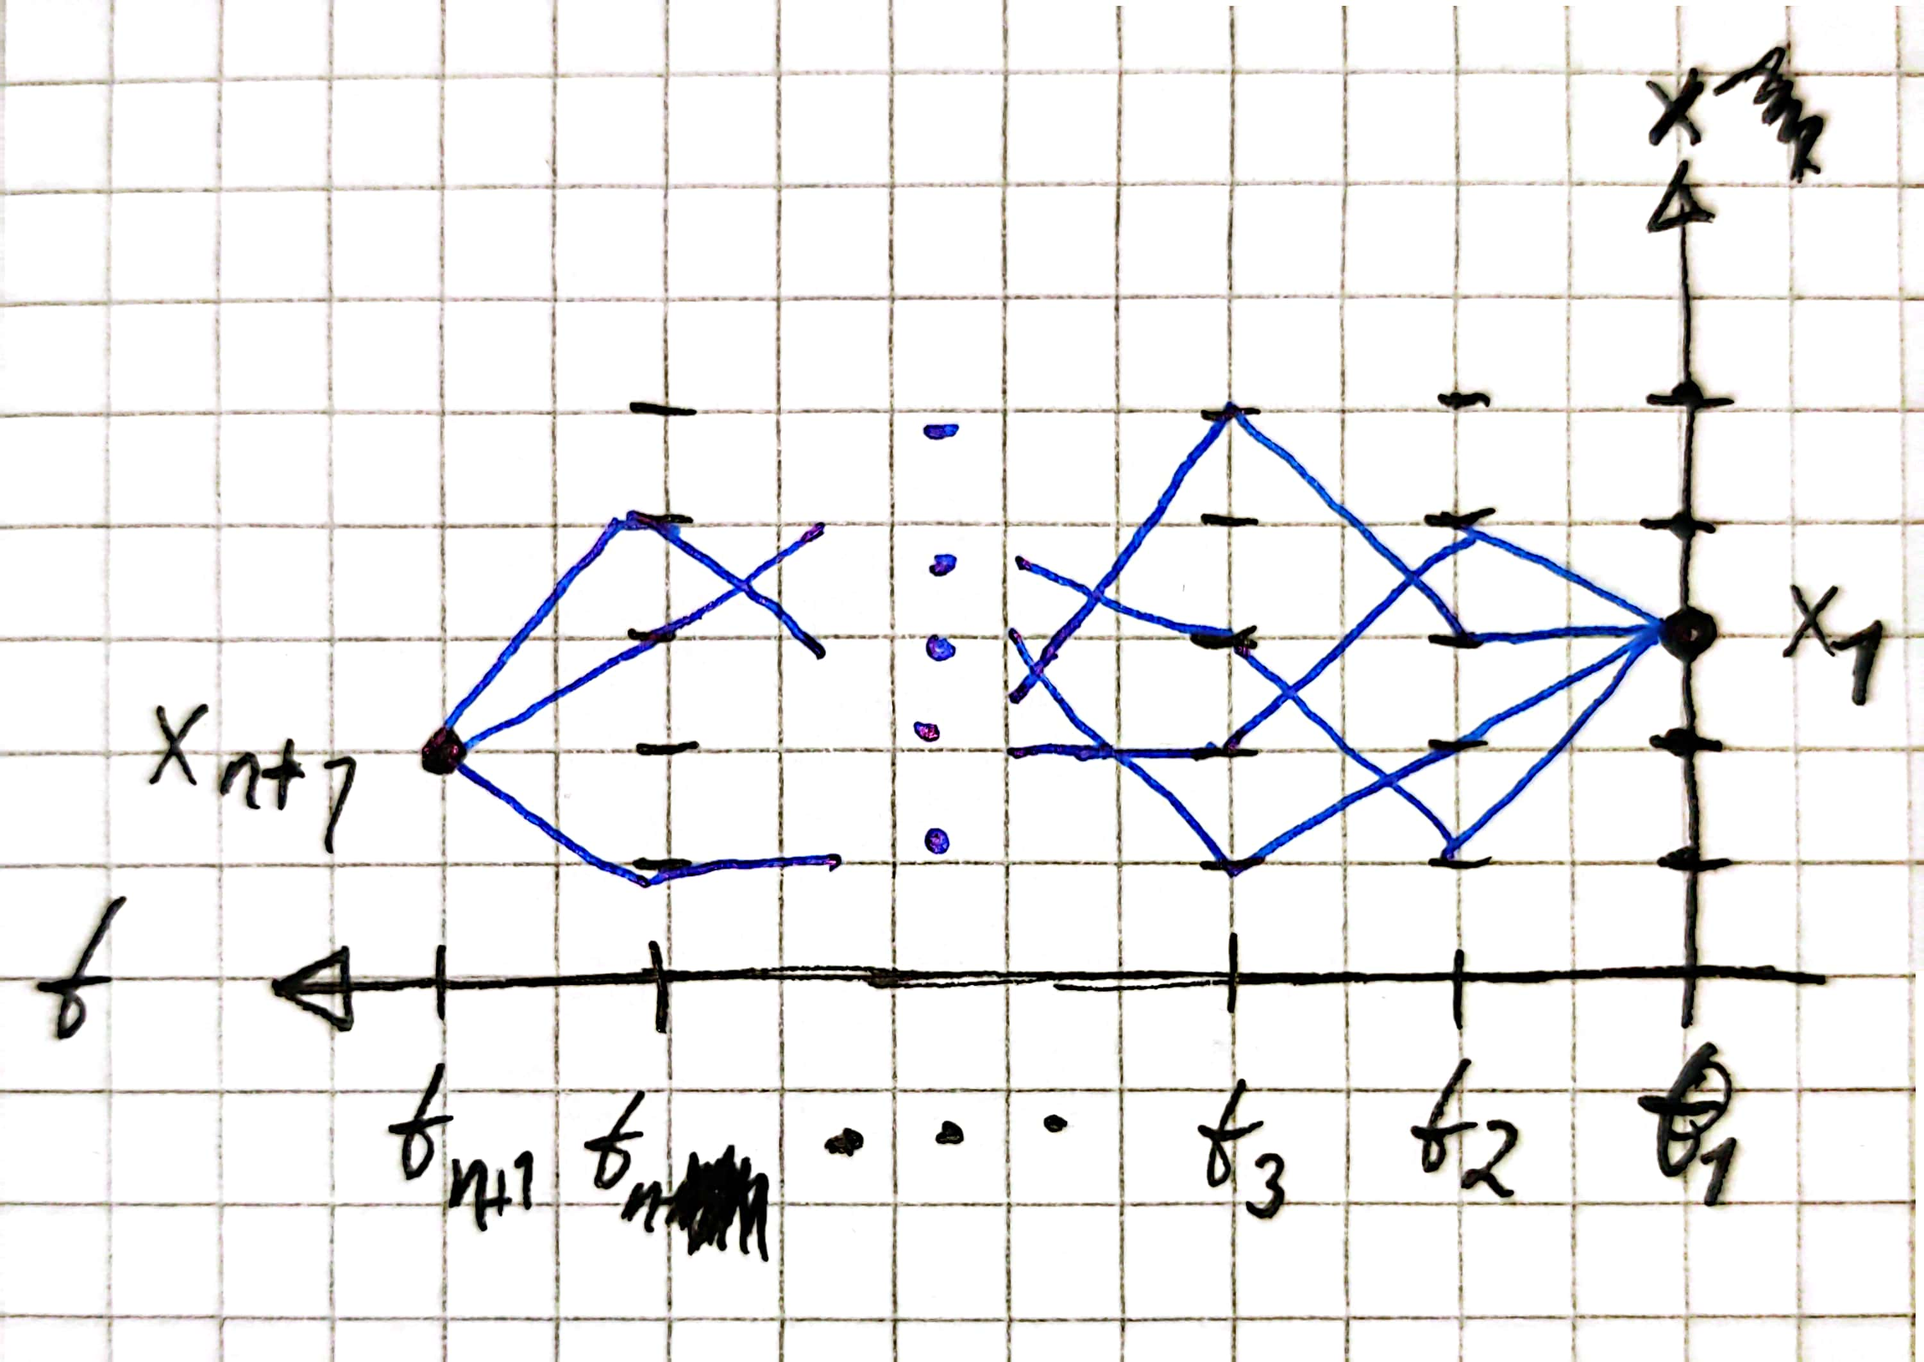
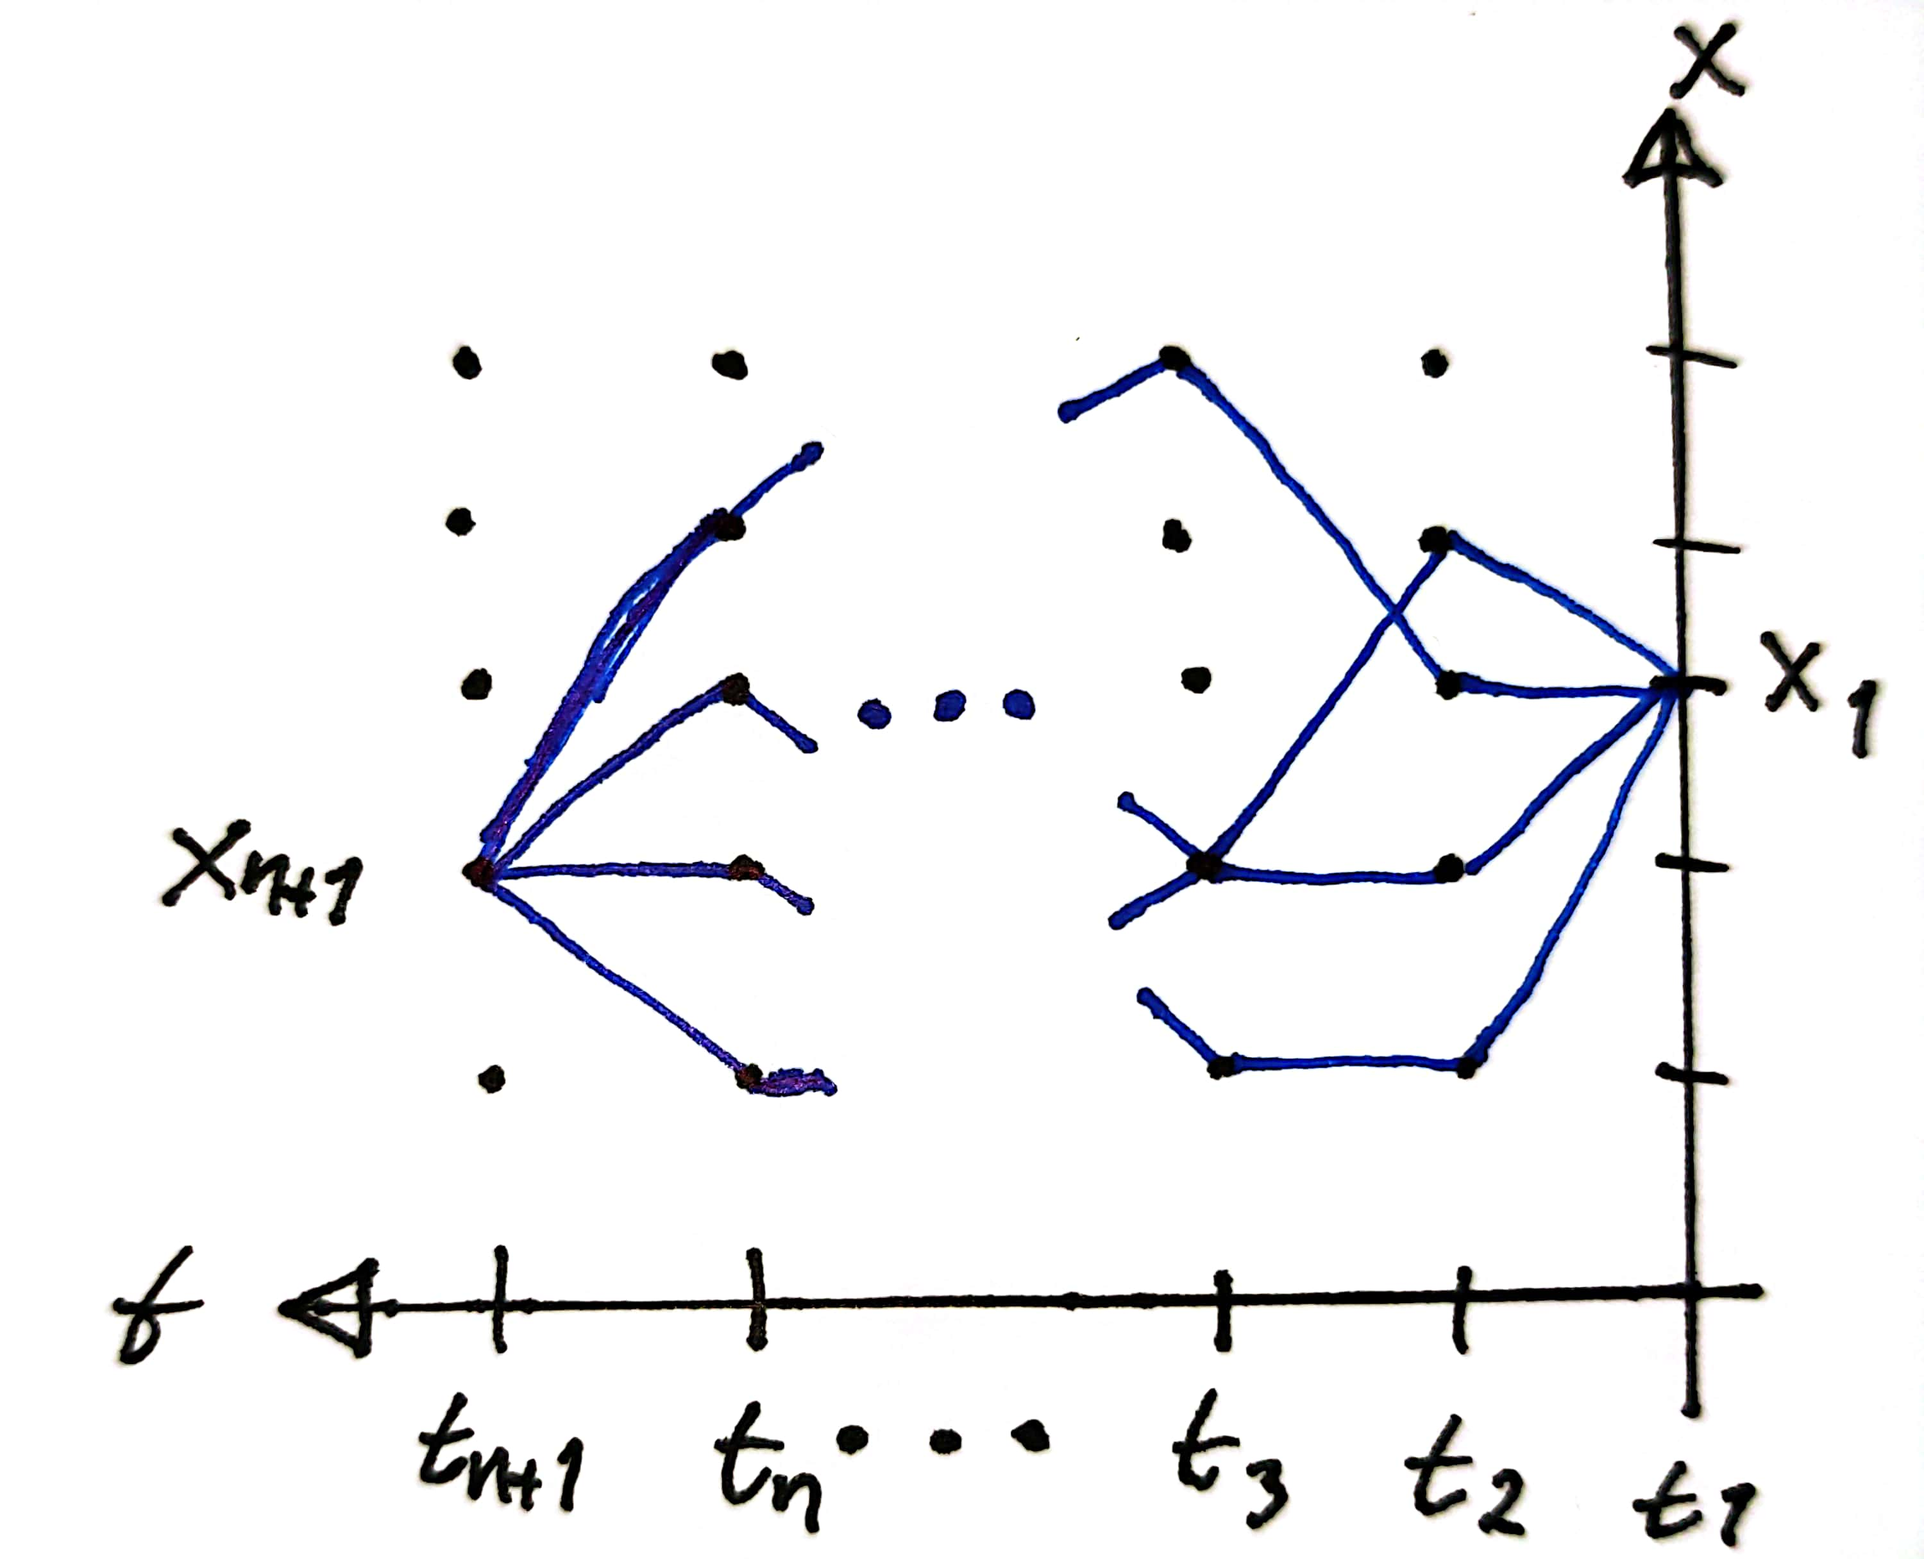
Fixed comments and improved from lecture 1

Changed region(s): [[0.0, 0.0, 1.0, 1.0]]

diff --git a/chapters/intro_PI.tex b/chapters/intro_PI.tex
@@ -1,12 +1,13 @@
-In this section, we will introduce the concept of a path integral in the context of Markovian stochastic processes.
-This is a formulation that describe the conditional probabilities of a physical process as a (suitably weighted) sum of all possible paths the system can take in its evolution between given initial and final state.
-The conditional probabilities are statements of the form ``Given this initial condition, what is the probability that the system ends up here'', and in the path integral formulation this is calculated by summing over all possible ways, or ``paths'' the system could evolve from the initial to the final state.
-The physical systems that can be described by this formulation are \emph{stochastic processes.}
+In this section, we introduce the concept of path integrals in the context of \emph{Markovian stochastic processes.}
+Stochastic processes, such as a pollen particle in water affected by the random thermal fluctuations of the liquid particles bumping into it, are described by probability distributions.
+\emph{Conditional} probabilities are statements of the form ``Given this initial state, what is the probability that the system ends up in that final state?'', and are therefore a function of all possible ways the system can evolve between these states.
+We can therefore describe conditional probabilities of a physical process as a weighted sum (actually, an integral) of all possible ``paths'' the system can take between its initial and final state.
 
 
 \section{Stochastic processes}
 
-A stochastic process $x(t)$ is a sequence of random variables. The variable $t \in \Te$ can be either discrete or continuous, the only requirement on $\Te$ being that it is \emph{totally ordered}.
+A stochastic process $x(t)$ is a sequence of random variables, indexed by $t \in \Te$.
+The variable $t$ can be either discrete or continuous, the only requirement on $\Te$ being that it is \emph{totally ordered}.
 Roughly, this means that, for any two elements $t_1, t_2 \in \Te$ and $t_1 \neq t_2$, then $t_1 < t_2$ or $t_2 < t_1$.
 The most common example of $\Te$ is time, so $x(t)$ describes the evolution of $x$ thought time.
 However, $\Te$ might also be the set of indices of monomers in a linear polymer chain, or of symbols printed on a thin paper strip, to give a couple of examples.
@@ -18,14 +19,10 @@ We will begin by considering discrete time steps with a length of $\Delta t$, so
 %
 The notation $\Delta t \Z$ means set of all integers $\Z$ multiplied by $\Delta t$.
 
-We consider a stochastic process $x(t)$ that take on discrete values, $x \in \Ex$, where
-%
-\begin{align}
-    \Ex = \Delta x \Z.
-\end{align}
-%
-This process can be though of as a particle on a one-dimensional lattice with lattice points separated by $\Delta x$.
-The probability that, if the particle is at lattice point $x = n \Delta x$ at time $t$, it will jump to lattice point $x' = m \Delta x$ at the next time step $t + \Delta t$, is $P(x'(t + \Delta t) | x(t) )$.
+We begin by considering a one-dimensional process, so $x \in \Ex$ is a scalar, but it may be either discrete or continuous.
+A discrete process, with for example $\Ex = \Delta x \Z$, can be though of as a particle on a one-dimensional lattice with lattice points separated by $\Delta x$.
+The probability that, if the particle is at lattice point $x = n \Delta x$ at time $t$, it will jump to lattice point $x' = m \Delta x$ at the next time step $t + \Delta t$, is denoted by $P\left(x'(t + \Delta t) | x(t) \right)$.
+This is illustrated in \autoref{fig: stochastic process}.
 We use there the common notation for conditional probabilities, where $P(A|B)$ means ``the probability of $A$ given $B$''.
 It is defined as 
 %
@@ -38,17 +35,18 @@ where $P(A\cap B)$ is the probability that \emph{both} $A$ and $B$ occur.
 
 \begin{figure}[!htb]
     \centering
-    \includegraphics[width=.5\textwidth]{fig/fig1.jpg}
+    \includegraphics[width=.4\textwidth]{fig/fig1.jpg}
     \caption{Illustration of a stochastic process}
     \label{fig: stochastic process}
-\end{figure}\todo{could you make sure that figures are referenced to in the text?}
+\end{figure}
+
 
 A \emph{Markov process} is a stochastic process with ``no memory''.
-This means that, if we have $n$ steps of the process $x(t_1), x(t_2), \dots x(t_n)$, then the conditional probability of $x(t_n)$, given $x(t_1), \dots x(t_{n-1})$, only depends on the last step $x(t_{n-1})$.
+This means that, if we have $n$ steps of the process, denoted $x(t_1), x(t_2), \dots x(t_n)$, then the conditional probability of observing $x(t_n)$ given $x(t_1), \dots x(t_{n-1})$, only depends on the last step $x(t_{n-1})$.
 This can be stated as
 %
 \begin{align}
-    P(x_n |x_{n-1}, x_{n-2} \dots x_1) = P(x_n | x_{n-1}).
+    P(x_n |x_{n-1}, x_{n-2}, \cdots, x_1) = P(x_n | x_{n-1}).
 \end{align}
 %
 Here, we use the shorthand $x_i = x(t_i)$.
@@ -57,7 +55,7 @@ As far as we know, the underlying laws of physics are fully described at each ti
 For example, if try to describe the flight of a football through the air with only its position, the description is not Markovian, as we need the current velocity to know where it will be at the next time-step.
 But, if we include the velocity in our description, the model is Markovian.
 A non-Markovian description thus indicate that we have excluded degrees of freedom that contain information about the system.
-Be ware that a system being Markovian does not imply statistical independence, so $P(x_{n}, x_{n-1})\neq P(x_n)P(x_n)$
+Be ware that a system being Markovian does not imply statistical independence, so $P(x_{n}, x_{n-1})\neq P(x_n)P(x_{n-1})$
 
 
 From the definition of conditional probability, \autoref{eq: cond prob}, we can derive that the joint probability of three events, $x_1$, $x_2$ and $x_3$ is given by
@@ -73,7 +71,7 @@ A Markovian process thus has the property
 \end{align}
 %
 We can furthermore write $P(x_3, x_1) = \sum_{x_2 \in \Ex} P(x_3, x_2, x_1)$.
-From this, we derive the Chapman-Kolmogorov equation, \todo{Here we could already include the case where $x$ is continuous, in which case the equation would involve integrals of a density $\mathcal{P}$, rather than sums. It seems a bit more intuitive than taking the continuum limit in $x$ after having introduced the (continuous) OU process...}
+From this, we derive the Chapman-Kolmogorov equation,
 %
 \begin{align}\label{eq: chapman kolmogorov}
     P(x_3|x_1) = \sum_{x_2} P(x_3|x_2) P(x_2|x_1).
@@ -88,6 +86,7 @@ By repeatedly applying this process, we can get conditional probability between 
 \end{align}
 %
 We see that this already begins to resemble something like a sum over all possible ``paths'' that the proces $x(t)$ can take to transition from $x_1$ at $t_1$ to $x_{n+1}$ at $x(t_{n+1})$.
+This is illustrated in \autoref{fig: paths}.
 
 
 \begin{figure}[!htb]
@@ -97,28 +96,92 @@ We see that this already begins to resemble something like a sum over all possib
     \label{fig: paths}
 \end{figure}
 
-\todo{I feel like introducing continuous $x$ already here and discussing the limit $\Delta t \to 0$ where we define the path integral would be useful and may avoid giving the impression that one needs Gaussian processes to define the path integral}
-\todo{I am all up for hand-drawn figures but maybe they could be slightly cleaner? E.g. by doing them on blank paper}
+
+\subsection*{The continuum limit}
+
+If we consider a particle on a line instead of a lattice, so $\Ex = \R$, we must consider \emph{probability densities} $\Pe(x)$.
+The probability of finding the particle between the points $x_i$ and $x_i + \Delta x$ is, for small $\Delta x$,
+%
+\begin{align}
+    P(x) \equiv P(x \in [x_i, x_i + \Delta x]) = \Delta x \Pe(x).
+\end{align}
+%
+This corresponds to the limit $\Delta x \rightarrow 0$ for the discrete process considered above, and allows us to go from sums to integrals,
+%
+\begin{align}
+    \sum_{x} P(x) \sim \sum_{x} \Delta x \Pe(x) \underset{\Delta x \rightarrow 0}{\longrightarrow} \int \dd x \, \Pe(x).
+\end{align}
+%
+In this limit, \autoref{eq: cond prob markov x0 given xn} becomes
+%
+\begin{align}\label{eq: cond prob markov x0 given xn cont}
+    P(x_{n+1}|x_1) 
+    = \left(\int \prod_{i=1}^{n} \dd x_i\right)
+    \Pe(x_{n+1}|x_n) \Pe(x_n| x_{n-1})\cdots \Pe(x_2|x_1).
+\end{align}
+
+Likewise, we can take the limit $\Delta t\rightarrow 0$, corresponding to $n\rightarrow\infty$, to obtain a process with continuous time.
+In this case (``the continuum limit'') \autoref{eq: cond prob markov x0 given xn cont} becomes
+%
+\begin{align}\label{eq: general path integral}
+    P(x(t_0 + T) | x(t_0) ) 
+    &
+    =
+    \lim_{
+        \substack{\Delta x \rightarrow 0\\n\rightarrow \infty}
+    }
+    \left(\int \prod_{i = 1}^{n} \dd x_i C_n\right)
+    \Phi_n(\{x_i\})
+    \equiv
+    \int \D x(t) \, \Phi[x(t)].
+\end{align}
+%
+where $\Delta t = T/n$ and $t_i = t_1 + (i-1)\Delta t$.
+We have defined 
+%
+\begin{align}
+    \Phi(\{x_i\}) = \frac{1}{C_n} \Pe(x(t_{n+1}) | x(t_n) ) \cdots \frac{1}{C_n} \Pe(x(t_{2}) | x(t_1) ),
+\end{align}
+%
+where $C_n$ is a constant we will come back to later.
+In the last equality, we have defined the \emph{path integral measure} $\D x(t) = \lim_{n \rightarrow \infty} \prod_{i=1}^n \dd x(t_i) C_n$,
+and the \emph{Onsager-Machlup functional} $\Phi[x(t)]= \lim_{n \rightarrow \infty} \Phi_n(\{x_i\})$.
+This is a functional and not a function, as it takes as its argument a function $x(t)$.
+We see that \autoref{eq: general path integral} gives the conditional probability for $x(t_0 + T)$ given $x(t_0)$ by integrating over all possible paths $x(t)$ weighted by $\Phi[x(t)]$.
+For now, this is a very formal quantity.
+To see the power of this formalism, we consider a concrete process, the Ornstein-Uhleneck process.
 
 
 
 \section{Gaussian process and the Ornstein-Uhlenbeck process}
 
-The most important class of stochastic processes, as it is pretty much the only one we can solve, is Gaussian processes.
-These have the form
+The most important class of stochastic processes, as it is pretty much the only one we can solve, is Gaussian processes, which are processes with probability densities with the form
 %
 \begin{align}
-    P(x_{n+1}|x_n)
+    \Pe(x_{n+1}|x_n)
     =
-    \frac{ 1 }{ \sqrt{ 2 \pi \sigma } }
-    \exp \left\{ {-\frac{(x_{n+1} - \bar x_{n + 1})^2}{2 \sigma }} \right\}
+    \frac{ 1 }{ \sqrt{ 2 \pi \sigma_{n+1} } }
+    \exp \left\{ {-\frac{(x_{n+1} - \bar x_{n + 1})^2}{2 \sigma_{n+1} }} \right\}
 \end{align}
 %
-Here, $\bar x_{n+1}$ is the expected value of $x_{n+1}$. 
-As we consider Markovian processes, this is a function of only the previous step, $x_n$, and $\sigma$ is the variance of the process. \todo{Is it clear that this is the variance conditioned on $x_n$? It might give the impression that we are talking about the steady-state variance, which does not depend on $x_n$}
+Here, $\bar x_{n+1}$ is the expected value of $x_{n+1}$, and $\sigma_{n+1}$ the variance.
+As we consider Markovian processes, these quantities are functions of only the previous step, $x_n$.
 
 
-A specific example is the Ornstein-Uhlenbeck (OU) process,
+If we have a vector valued process instead, $\bm x(t) = x_a(t) \hat {\bm x}_a$, then the probability distribution is a multivariate Gaussian
+%
+\begin{align}
+    P(x_{n_1}|x_n)
+    = 
+    \frac{ 1 }{ \sqrt{ 2 \pi \det \Sigma } }
+    \exp \left\{ - \sum_{ab} \left[x_a(t_{n+1}) - \bar x_a(t_{n+1})\right] \Sigma_{ab}^{-1} \left[x_b(t_{n+1}) - \bar x_b(t_{n+1})\right] \right\}.
+\end{align}
+%
+Here, $\Sigma$ is the covariance matrix of $x$.
+An example of this may be a particle moving in three dimensions, so $\bm x$ is a three-dimensional vector, or a set of $N$ particles with position and velocity in three dimensions, so $\bm x$ is a $6 N$ component vector.
+
+
+A specific example is the Ornstein-Uhlenbeck (OU) process, which in one dimension is
 %
 \begin{align}
     \odv{ x(t) }{ t } = - \mu x(t) + \eta(t).
@@ -127,12 +190,12 @@ A specific example is the Ornstein-Uhlenbeck (OU) process,
 This models, for example, a particle on a spring in a fluid with thermal noise where friction dominates.
 The $-\mu x(t)$ term is from Hooks law, and $\eta(t)$ is a zero-mean random force modeling the forces of the fluid particles bumping into the particle.
 You can read more about this process in~\footnote{\url{https://iopscience.iop.org/article/10.1088/1367-2630/ad7ef1/meta}}.
-The expectation value of the OU-process at time $t_{n+1}$ conditioned on $x(t_n)=x_n$ is $x_n - \mu x_n \Delta t$ --- i.e.\ where it was the step before minus the correction due to the spring-force.
-The variance is $\sigma = \frac{2D}{\mu}(1  - e^{- 2 \mu \Delta t})$, where $D$ is the diffusion constant, which is the variance of the noise $\eta$.
-With this, OU-process has the conditional probability distribution
+For small $\Delta t$, the expectation value of the OU-process at time $t_{n+1}$ conditioned on $x(t_n)=x_n$ is $x_n - \mu x_n \Delta t$ --- i.e. where it was the step before minus the correction due to the spring-force.
+The variance is $\sigma = 2D \Delta t$, where $D$ is the diffusion constant, which is the variance of the noise $\eta$.
+With this, OU-process has the conditional probability density
 %
 \begin{align}
-    P(x_{n + 1}| x_n) 
+    \Pe(x_{n + 1}| x_n) 
     = \sqrt{ \frac{ \mu }{ 4 \pi D \Delta t } }
     \exp \left\{ -
     \frac{ \left(x_{n + 1} - x_n + \mu x_n \Delta t\right)^2 }{ 4 D \Delta t } 
@@ -144,18 +207,11 @@ With this, OU-process has the conditional probability distribution
 \end{align}
 %
 where we have introduced the discrete time-derivative, $\dot x_{n+1} = (x_{n + 1} - x_n) / \Delta t$.
+In the $\Delta t \rightarrow 0$-limit, this becomes a regular derivative.
 
-We will now take two different limits, which will yield the path integral.
-This means we will have to take the continuum limit.
-If we consider the particles to live on a line instead of a lattice, then the position is given by a probability density $\Pe(x)$.
-The probability of finding the particle between the points $x_i$ and $x_i + \Delta x$ is, for small $\Delta x$, $P(x) = P(x \in [x_i, x_i + \Delta x]) = \Pe(x) \Delta x$.
-This allows us to go from sums to integrals,
-%
-\begin{align}
-    \sum_{x} P(x) = \sum_{x} \Delta x \Pe(x) \underset{\Delta x \rightarrow 0}{\longrightarrow} \int \dd x \, \Pe(x).
-\end{align}
-%
-Inserting the OU process into \autoref{eq: cond prob markov x0 given xn} and taking the continuous limit, we get
+
+
+Inserting the OU process into \autoref{eq: cond prob markov x0 given xn} and taking the continuum limit, we get
 %
 \begin{align}
     P(x_{n+1}|x_{1})
@@ -175,29 +231,15 @@ Inserting the OU process into \autoref{eq: cond prob markov x0 given xn} and tak
     \int \D x(t) \, \Phi[x(t)].
 \end{align}
 %
-where the limit $n\to \infty$ is taken at fixed $n\Delta t$ (process duration) and $\Phi$ is the Onsager-Machlup \emph{functional}.
-It is a functional, and not a function, as it takes in a function $x(t)$, and gives back a number.
-We have defined the functional integration measure,
+In this case, the integration measure is
 %
 \begin{align}
-    \D x(t) \equiv \lim_{\substack{\Delta x \rightarrow 0\\ n \rightarrow \infty} } \prod_{n} \Delta x \sqrt{ \frac{\mu}{ 4 \pi D \Delta t }}
+    \D x(t) \equiv \lim_{\substack{\Delta x \rightarrow 0\\ n \rightarrow \infty} } \prod_{n} \Delta x \sqrt{ \frac{\mu}{ 4 \pi D \Delta t }},
 \end{align}
 %
-This measure is not necessarily well-defined. 
+which corresponds to $C_n = \sqrt{\mu/4\pi D \Delta t}$.
+This measure is not strictly well-defined. 
 To performed calculations, we will have re-descritize the path integral, so this can be considered as a notational trick rather than a true limit.
-
-
-If we have a vector valued process instead, $\bm x(t) = x_a(t) \hat {\bm x}_a$, then the probability distribution is a multivariate Gaussian
-%
-\begin{align}
-    P(x_{n_1}|x_n)
-    = 
-    \frac{ 1 }{ \sqrt{ 2 \pi \det \Sigma } }
-    \exp \left\{ - \sum_{ab} (x_a(t_{n+1}) - \bar x_a(t_{n+1})) \Sigma_{ab}^{-1} (x_b(t_{n+1}) - \bar x_b(t_{n+1})) \right\}.
-\end{align}
-%
-Here, $\Sigma$ is the covariance matrix of $x$. \todo{Can this be moved further up where we define what a Gaussian process is?}
-An example of this may be a particle moving in three dimensions, so $\bm x$ is a three-dimensional vector, or a set of $N$ particles with position and velocity in three dimensions, so $\bm x$ is a $6 N$ component vector.
 
 
 \section{Master equation}

diff --git a/main.tex b/main.tex
@@ -15,8 +15,6 @@
 
 These are the lecture notes from the course ``Path integral methods in stochastic processes and field theory'' held at Göttingen University and the Max Planck Institute of Dynamics and Self-organization. These notes are a work in progress and will be updated weekly for the duration of the course, including both new chapters and improvements on pre-existing ones. They are currently maintained by Martin Johnsrud. Please reach out to us if you notice typos or otherwise incorrect pieces of content. 
 
-% \chapter{Introduction}
-% \input{chapters/intro}
 
 \chapter{Introducing the path integral}
 \input{chapters/intro_PI}
